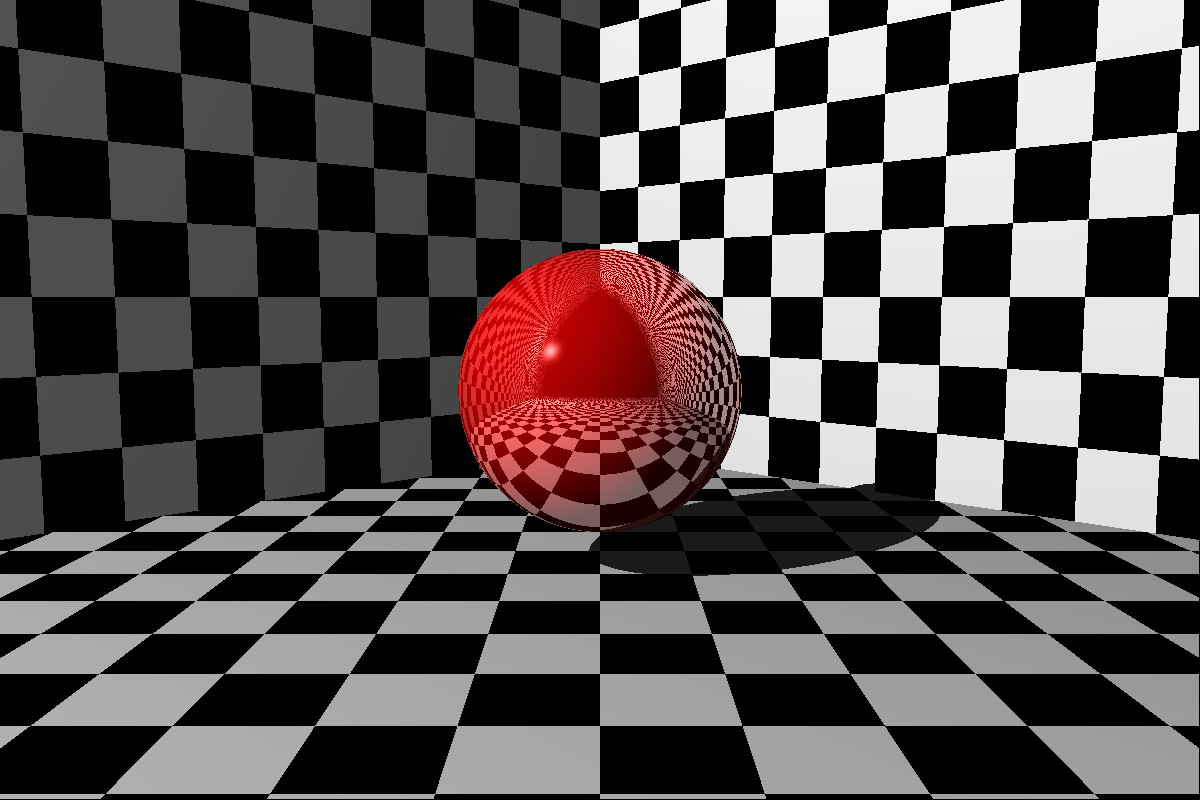
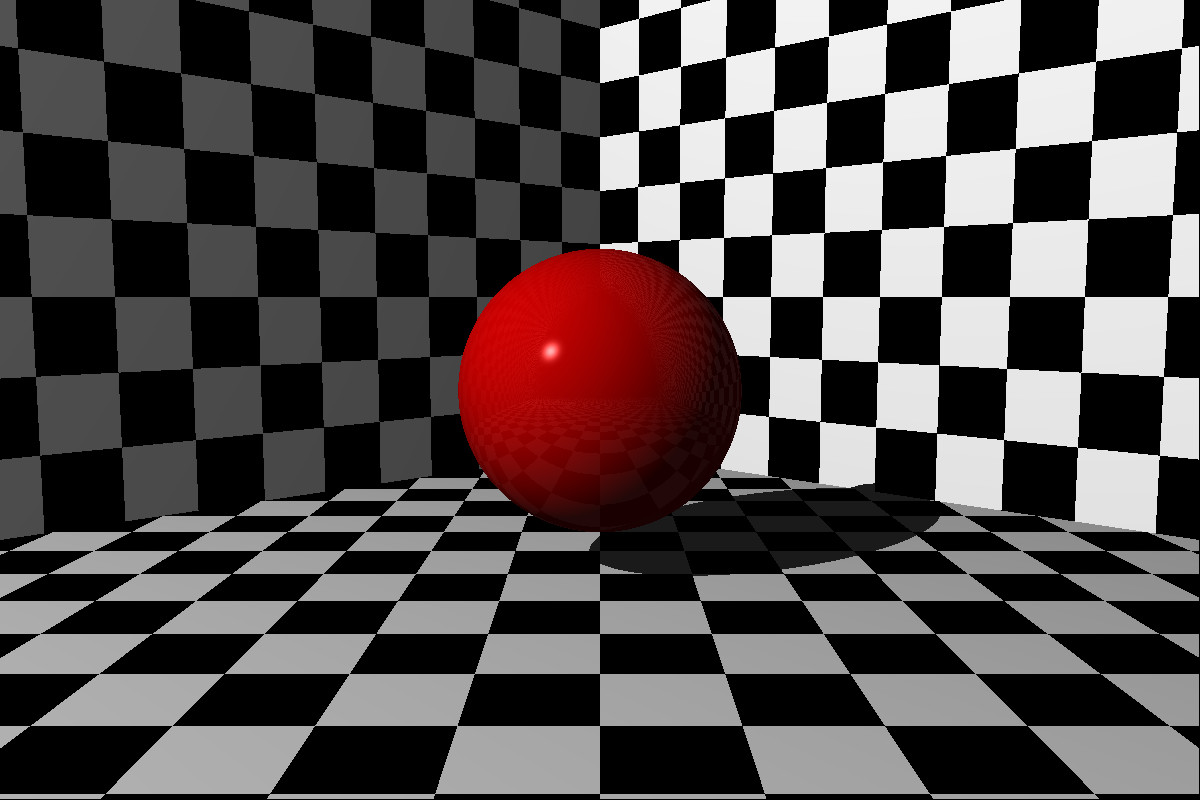
Changed reflection image

Changed region(s): [[0.37, 0.3125, 0.6167, 0.6562]]

diff --git a/Apollo.Tests/Display/Reflections/DrawReflections.cs b/Apollo.Tests/Display/Reflections/DrawReflections.cs
@@ -45,7 +45,7 @@ public class DrawReflections
         middle.Material.Colour = new Colour(1, 0, 0);
         middle.Material.Diffuse = 0.7f;
         middle.Material.Specular = 0.7f;
-        middle.Material.Reflectivity = 0.6;
+        middle.Material.Reflectivity = 0.05;
         // Setup world
         var spheres = new List<IShape>() { floor, leftWall, rightWall, middle };
         var light = new PointLight(new Point(-10, 10, -10), new White());
